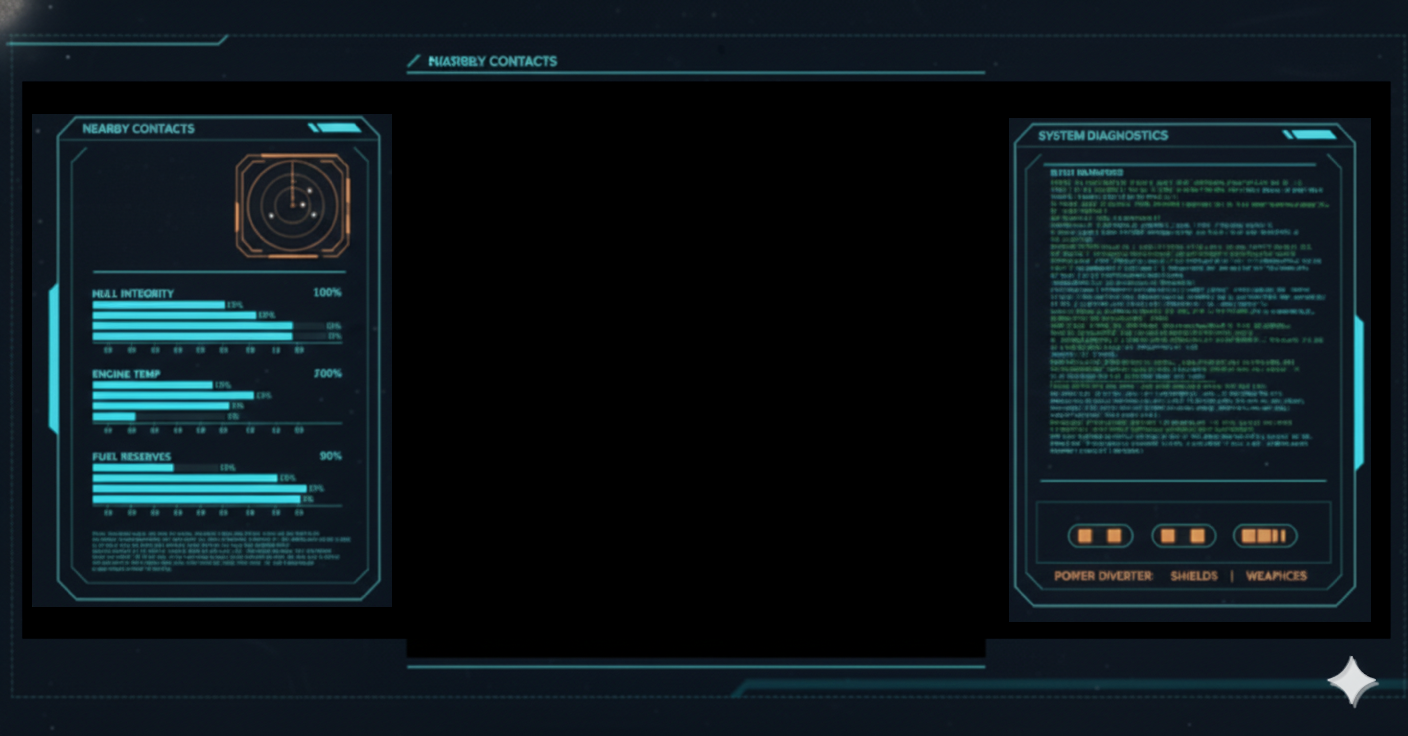
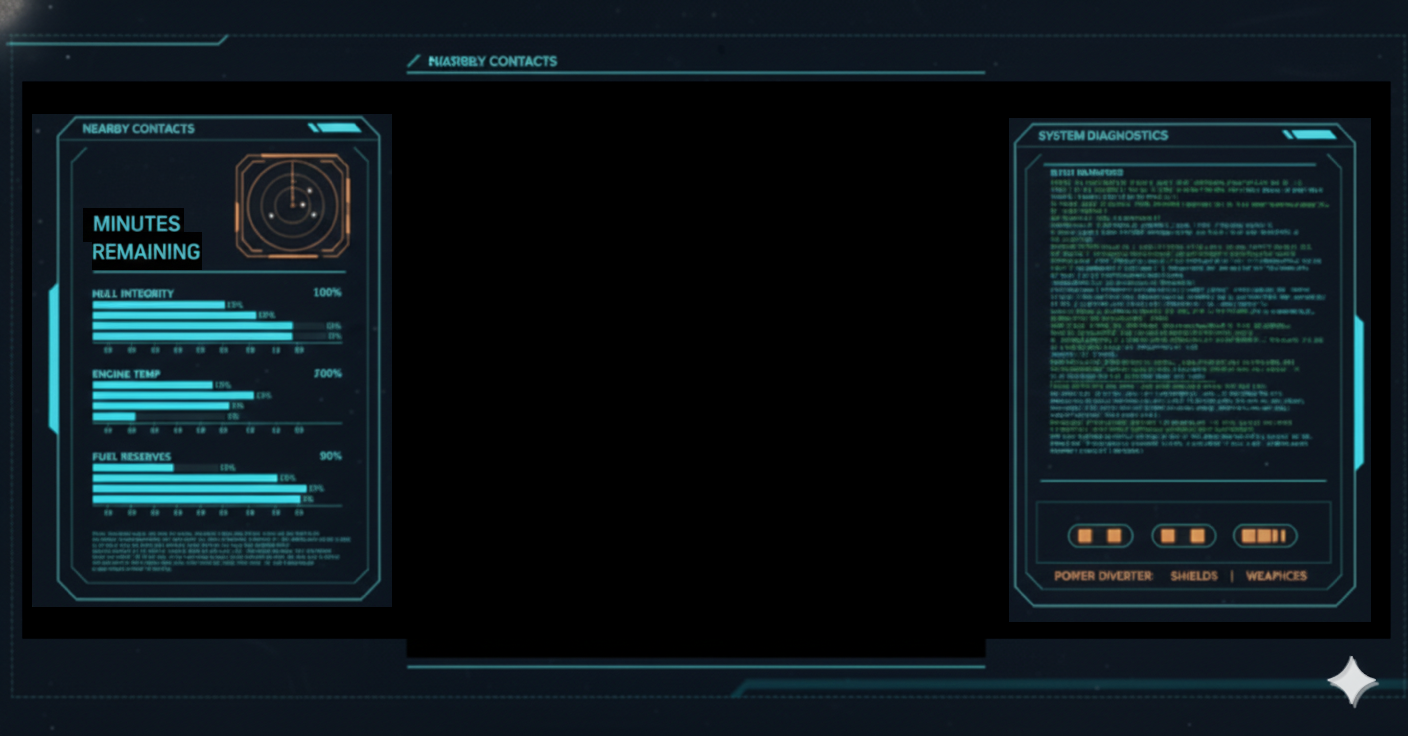
Add files via upload

Changed region(s): [[0.0312, 0.2812, 0.1562, 0.375]]

diff --git a/index.html b/index.html
@@ -5,7 +5,23 @@
     <meta charset="UTF-8">
     <meta name="viewport" content="width=device-width, initial-scale=1.0">
     <title>Aetherium Dynamics // Pilgrim Ship Console OS v1.2</title>
-    <script src="https://unpkg.com/@ungap/structured-clone"></script>
+
+    <script>
+    // Robust Chrome 93 Compatibility Patch
+    if (!window.structuredClone) {
+        window.structuredClone = function(obj) {
+            if (obj === undefined) return undefined;
+            try {
+                return JSON.parse(JSON.stringify(obj));
+            } catch (e) {
+                console.error("StructuredClone Fallback Failed:", e);
+                return obj; // Return original if parsing fails
+            }
+        };
+    }
+</script>
+
+
     <link rel="stylesheet" href="style.css">
 
     <script src="https://www.gstatic.com/firebasejs/9.23.0/firebase-app-compat.js"></script>
@@ -226,15 +242,15 @@
 </div>
 
         <div class="status-card tactical-panel">
-            <h3>[ POWER LOAD ]</h3>
+            <h3>[ LIFE SUPPORT ]</h3>
             <div class="power-load-container">
-    <div id="o2PercentageCounter" style="position: absolute; top: 52%; left 50%; transform: translate (-50%, -50%); color: var(--primary-color); font-family: 'Space Mono', monospace; font-size: 1.2em;">0%</div>
+        <div id="o2PercentageCounter" style="position: absolute; top: 58%; left: 50%; transform: translate(-50%, -50%); color: var(--primary-color); font-family: 'Space Mono', monospace; font-size: 1.1em; text-align: center; width: 100%;">--:--</div>
 
-    <svg width="140px" height="140px" viewBox="-100 -100 200 200">
-        <mask id="progress-mask">
-            <rect x="-100" y="-100" width="200" height="200" fill="#000" />
-            <circle id="o2ProgressRing" r="96" fill="none" stroke="#fff" stroke-width="7" stroke-dasharray="100 100" stroke-dashoffset="100" pathLength="100" />
-        </mask>
+        <svg width="140px" height="140px" viewBox="-100 -100 200 200">
+            <mask id="progress-mask">
+                <rect x="-100" y="-100" width="200" height="200" fill="#000" />
+                <circle id="o2ProgressRing" r="96" fill="none" stroke="#fff" stroke-width="7" stroke-dasharray="100 100" stroke-dashoffset="100" pathLength="100" />
+            </mask>
 
         <circle class="outer_circle" cx="0" cy="0" r="99" pathLength="64" />
         <circle class="outer_circle_bars_l" cx="0" cy="0" r="96" pathLength="64" />

diff --git a/script.js b/script.js
@@ -1263,19 +1263,37 @@ function startGlitchLoop() {
 
 
 /**
- * NEW: Updates the circular O2 progress indicator
+ * UPDATED: Updates the circular O2 progress indicator with a time countdown
  * @param {number} o2Value - The current O2 level (0-100)
  */
 function updateO2Visuals(o2Value) {
-    // 1. Update the numerical percentage inside the circle
-    const counterElement = document.getElementById("o2PercentageCounter");
-    if (counterElement) {
-        counterElement.textContent = `${Math.floor(o2Value)}%`;
+    // 1. Calculate Time Remaining based on current ship status
+    let rate = 0;
+    const engineFixed = shipData.engine.status.includes("ONLINE");
+    const hullFixed = shipData.hull.status.includes("NOMINAL");
+
+    if (engineFixed && hullFixed) {
+        rate = 0; // O2 is increasing/stable
+    } else if (engineFixed || hullFixed) {
+        rate = O2_DECAY_RATE_WARNING;  // 0.02% per second
+    } else {
+        rate = O2_DECAY_RATE_CRITICAL; // 0.04% per second
     }
 
-    // 2. Update the SVG ring mask
-    // Since pathLength="100" is set in the HTML, the offset 
-    // is simply (100 - current percentage).
+    const counterElement = document.getElementById("o2PercentageCounter");
+    if (counterElement) {
+        if (rate === 0) {
+            counterElement.textContent = "STABLE";
+        } else {
+            // Formula: (Current % / Decay Rate per second) = total seconds left
+            const totalSecondsLeft = o2Value / rate;
+            const mins = Math.floor(totalSecondsLeft / 60);
+            const secs = Math.floor(totalSecondsLeft % 60);
+            counterElement.textContent = `${mins}:${secs.toString().padStart(2, '0')}`;
+        }
+    }
+
+    // 2. Update the SVG ring mask (keep this the same for the visual bar)
     const ring = document.getElementById("o2ProgressRing");
     if (ring) {
         const offset = 100 - o2Value;
